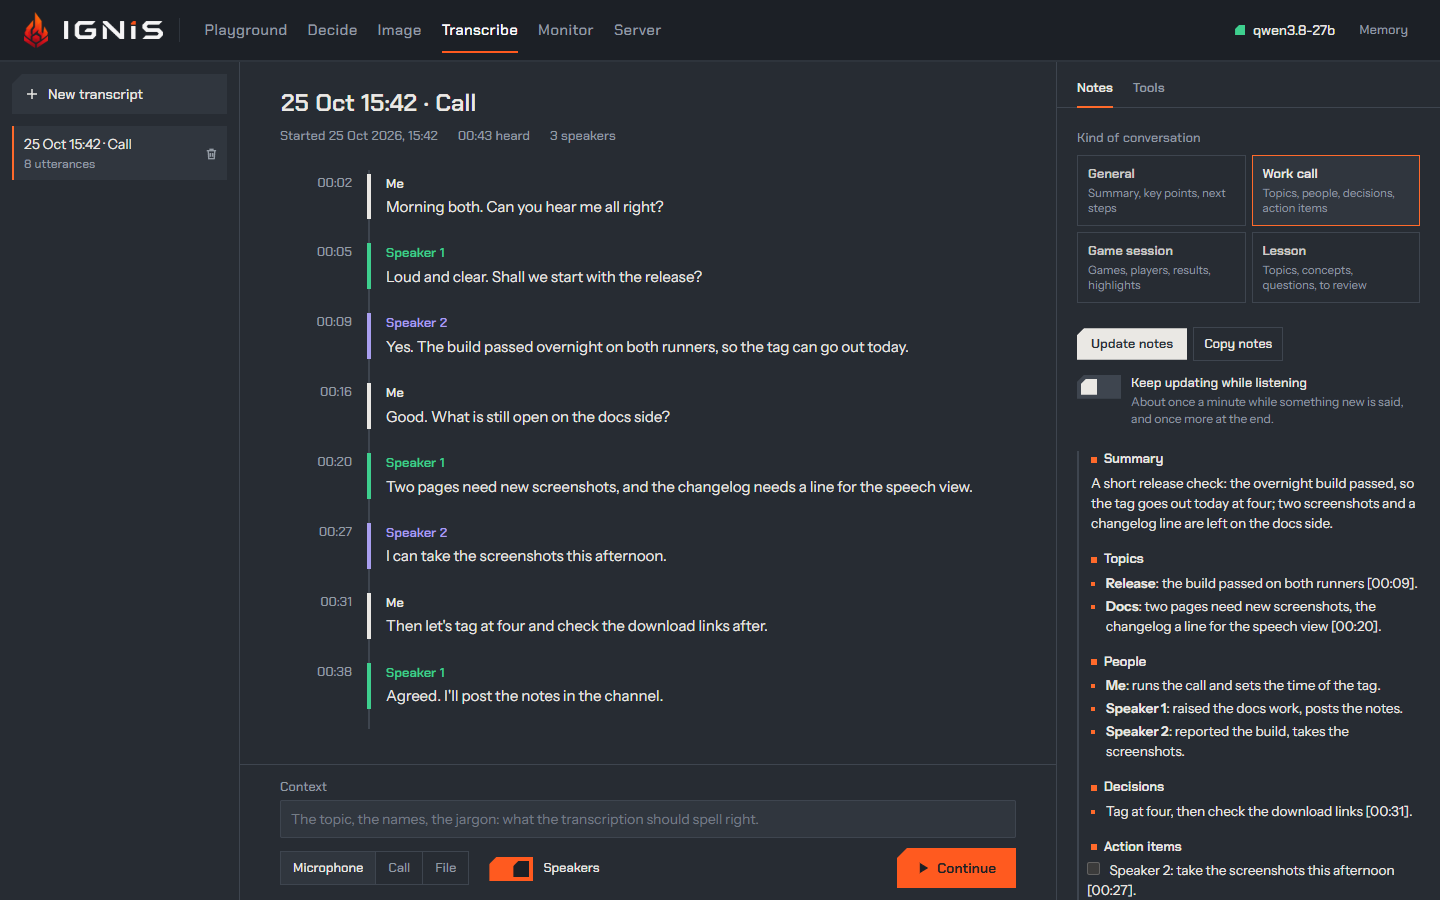
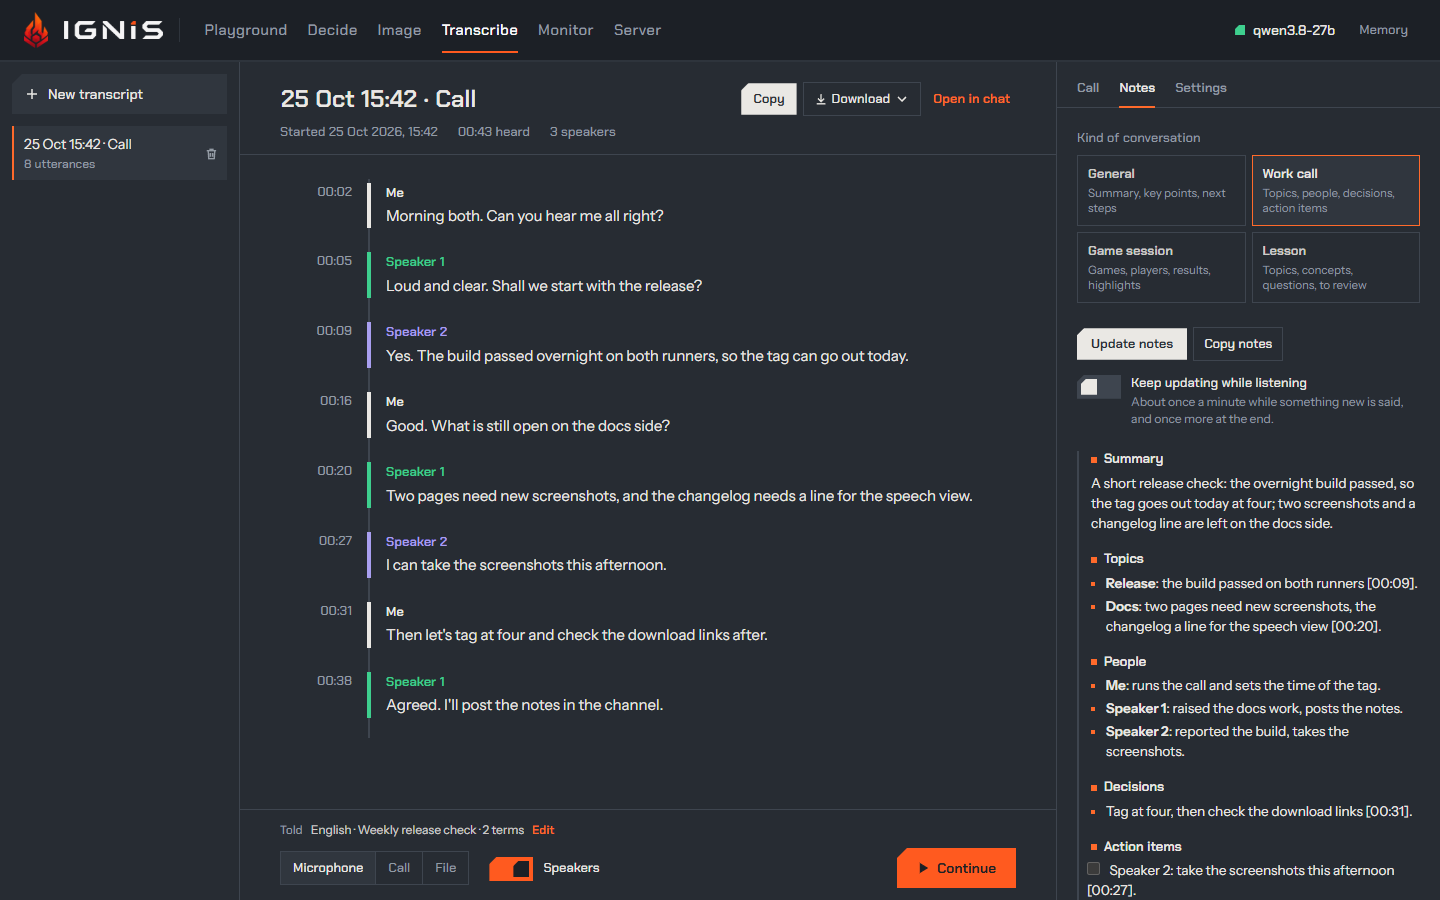
The Download menu's chevron points down while it is closed, as a menu that opens downward should (the app's chevron points up as drawn). The guide's Transcribe picture is taken again: the scene's made-up call now has a context applied, so the deck's first line shows what is told, and the right panel

diff --git a/web/src/transcribe/TranscribeView.test.tsx b/web/src/transcribe/TranscribeView.test.tsx
@@ -352,6 +352,8 @@ describe("the view", () => {
     );
     expect(html.indexOf('aria-label="Transcript title"')).toBeLessThan(html.indexOf(">Download"));
     expect(html).toContain(">Open in chat<");
+    // The Download menu opens downward: its chevron points down while it is closed.
+    expect(html).toContain("rotate-180 transition-transform group-open:rotate-0");
     expect(html).toMatch(/role="tab" id="transcribe-tab-call" aria-selected="true"/);
     expect(html).toMatch(/role="tab" id="transcribe-tab-notes" aria-selected="false"/);
     expect(html).toMatch(/role="tab" id="transcribe-tab-settings" aria-selected="false"/);

diff --git a/web/src/transcribe/TranscribeView.tsx b/web/src/transcribe/TranscribeView.tsx
@@ -292,7 +292,7 @@ function Exports({ transcript: t, onOpenInChat }: { transcript: Transcript; onOp
         >
           <IconDownload />
           Download
-          <IconChevron className="transition-transform group-open:rotate-180 motion-reduce:transition-none" />
+          <IconChevron className="rotate-180 transition-transform group-open:rotate-0 motion-reduce:transition-none" />
         </summary>
         <ul className="absolute right-0 z-20 mt-1 flex min-w-36 flex-col border border-line bg-surface py-1 shadow-lg">
           {EXPORTS.map((format) => (
